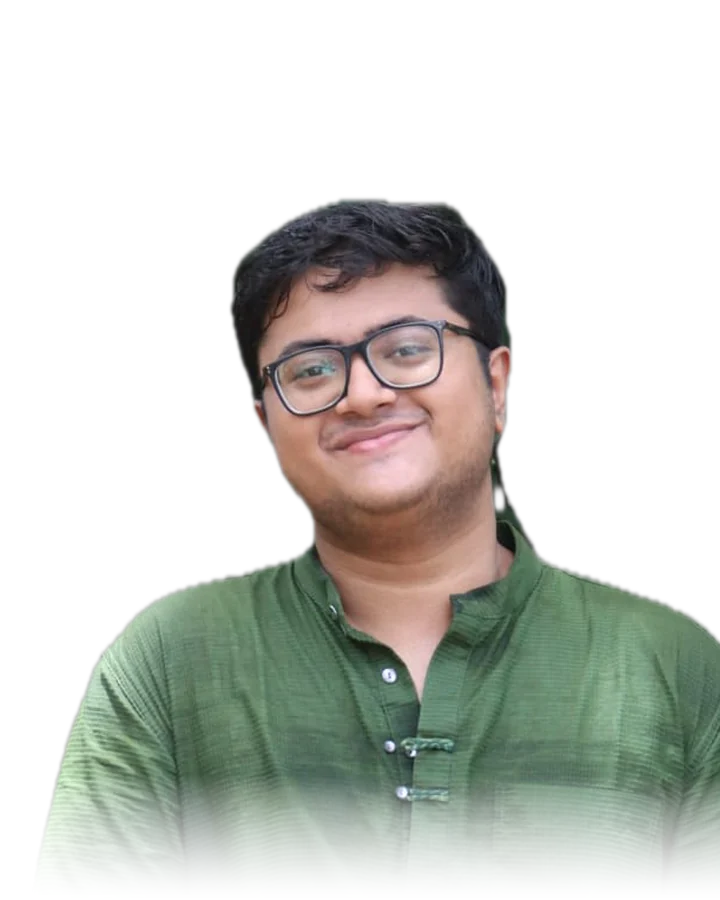
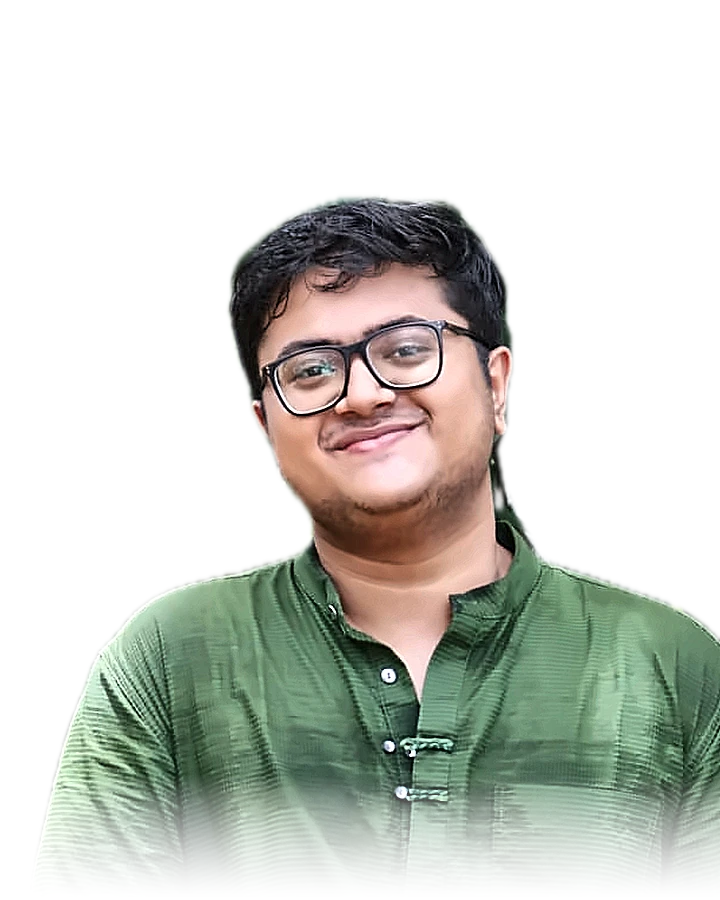
About: clearer, relit portraits for Alosh and Karthik; vision and mission without boxes (#11)

diff --git a/src/pages/Home.css b/src/pages/Home.css
@@ -290,8 +290,7 @@ a:focus-visible,button:focus-visible,input:focus-visible,select:focus-visible { 
 .about-story__figure { margin:0; }
 .about-story__figure img { display:block; width:100%; height:auto; border:1px solid var(--sf-line); border-radius:24px; }
 .about-story__figure figcaption { margin-top:14px; font:10px/1.6 var(--sf-mono); letter-spacing:1.5px; color:var(--sf-muted); }
-.about-aims { display:grid; grid-template-columns:1fr 1fr; gap:24px; }
-.about-aims > div { padding:36px; border:1px solid var(--sf-line); border-radius:24px; background:var(--sf-panel); }
+.about-aims { display:grid; grid-template-columns:1fr 1fr; gap:72px; }
 .technical-home .about-aims h2 { font-size:clamp(26px,2.6vw,34px); letter-spacing:-1px; }
 .technical-home .about-aims .about-aims__lead { margin:18px 0 14px; font-size:20px; line-height:1.45; color:var(--sf-ink); }
 .technical-home .about-aims p { font-size:14px; line-height:1.75; }
@@ -311,5 +310,5 @@ a:focus-visible,button:focus-visible,input:focus-visible,select:focus-visible { 
 .technical-home .about-team__join { margin:44px 0 40px; font-size:14px; }
 .about-team__join a { color:var(--sf-accent); text-decoration:none; }
 @media(max-width:1050px) { .about-lead,.about-story { gap:44px; }.about-story { grid-template-columns:1fr; }.about-story__figure { max-width:620px; } }
-@media(max-width:760px) { .about-hero { padding-block:64px 8px; }.about-lead { grid-template-columns:1fr; gap:36px; }.about-lead__portrait { max-width:420px; }.about-lead__mark { margin-top:28px; }.about-aims,.about-team__grid { grid-template-columns:1fr; }.about-aims > div { padding:26px; }.about-team__grid li { max-width:420px; } }
+@media(max-width:760px) { .about-hero { padding-block:64px 8px; }.about-lead { grid-template-columns:1fr; gap:36px; }.about-lead__portrait { max-width:420px; }.about-lead__mark { margin-top:28px; }.about-aims,.about-team__grid { grid-template-columns:1fr; }.about-aims { gap:44px; }.about-team__grid li { max-width:420px; } }
 @media(prefers-reduced-motion:reduce) { .about-person,.about-person__photo { transition:none; }.about-person:hover,.about-person:focus-visible { transform:none; } }
